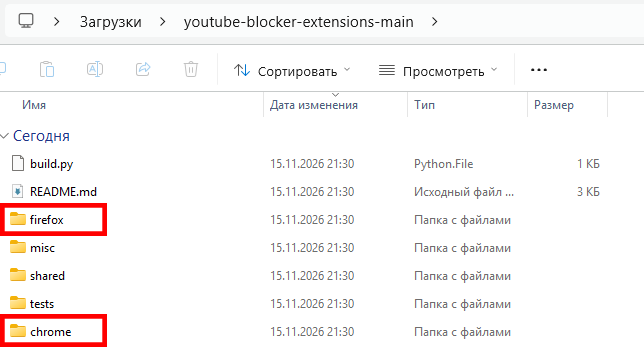
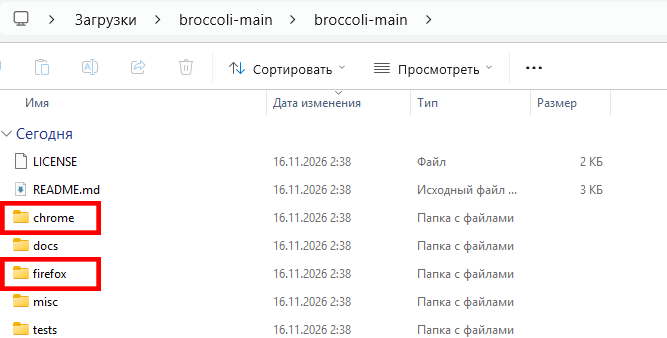
Update README

diff --git a/README.md b/README.md
@@ -14,16 +14,18 @@
 
     ![download](misc/download.png)
 
-2. Распаковать ZIP файл. Расширения для Chrome и Firefox лежат в соответствующих папках
+2. Распаковать ZIP файл. Расширения для Chrome и Firefox лежат в соответствующих папках, см. картинку
     
     ![unpacked](misc/unpacked.png)
 ### Chrome
+Я отправил заявку на публикацию в Chrome Web Store, но пока вручную:
+
 1. Открыть меню браузера (три точки в правом верхнем углу) -> Расширения -> Управление расширениями (или ввести в адресную строку `chrome://extensions/`).
 2. В правом верхнем углу страницы переключить тумблер «Режим разработчика» (Developer mode) в положение Вкл.
 3. Нажать на кнопку «Загрузить распакованное расширение» (Load unpacked) в левом верхнем углу. В открывшемся окне выбрать папку `chrome` из распакованного архива (смотри выше).
 
 ### Firefox
-1. Пока никак, для постоянной установки надо получить подпись от `addons.mozilla.org`.
+1. Пока никак, для постоянной установки надо получить подпись от `addons.mozilla.org`. В процессе.
 
 ## Как пользоваться
 1. Залогиниться с выданным логином и паролем.
@@ -33,4 +35,4 @@
 
 ## Дисклеймер
 
-Я не умею и не люблю писать фронтэнд, поэтому весь код тут сгенерирован с помощью Codex.
+Я не умею и не люблю писать фронтенд, поэтому весь код тут, в отличие от бэкенда, сгенерирован с помощью Codex.
